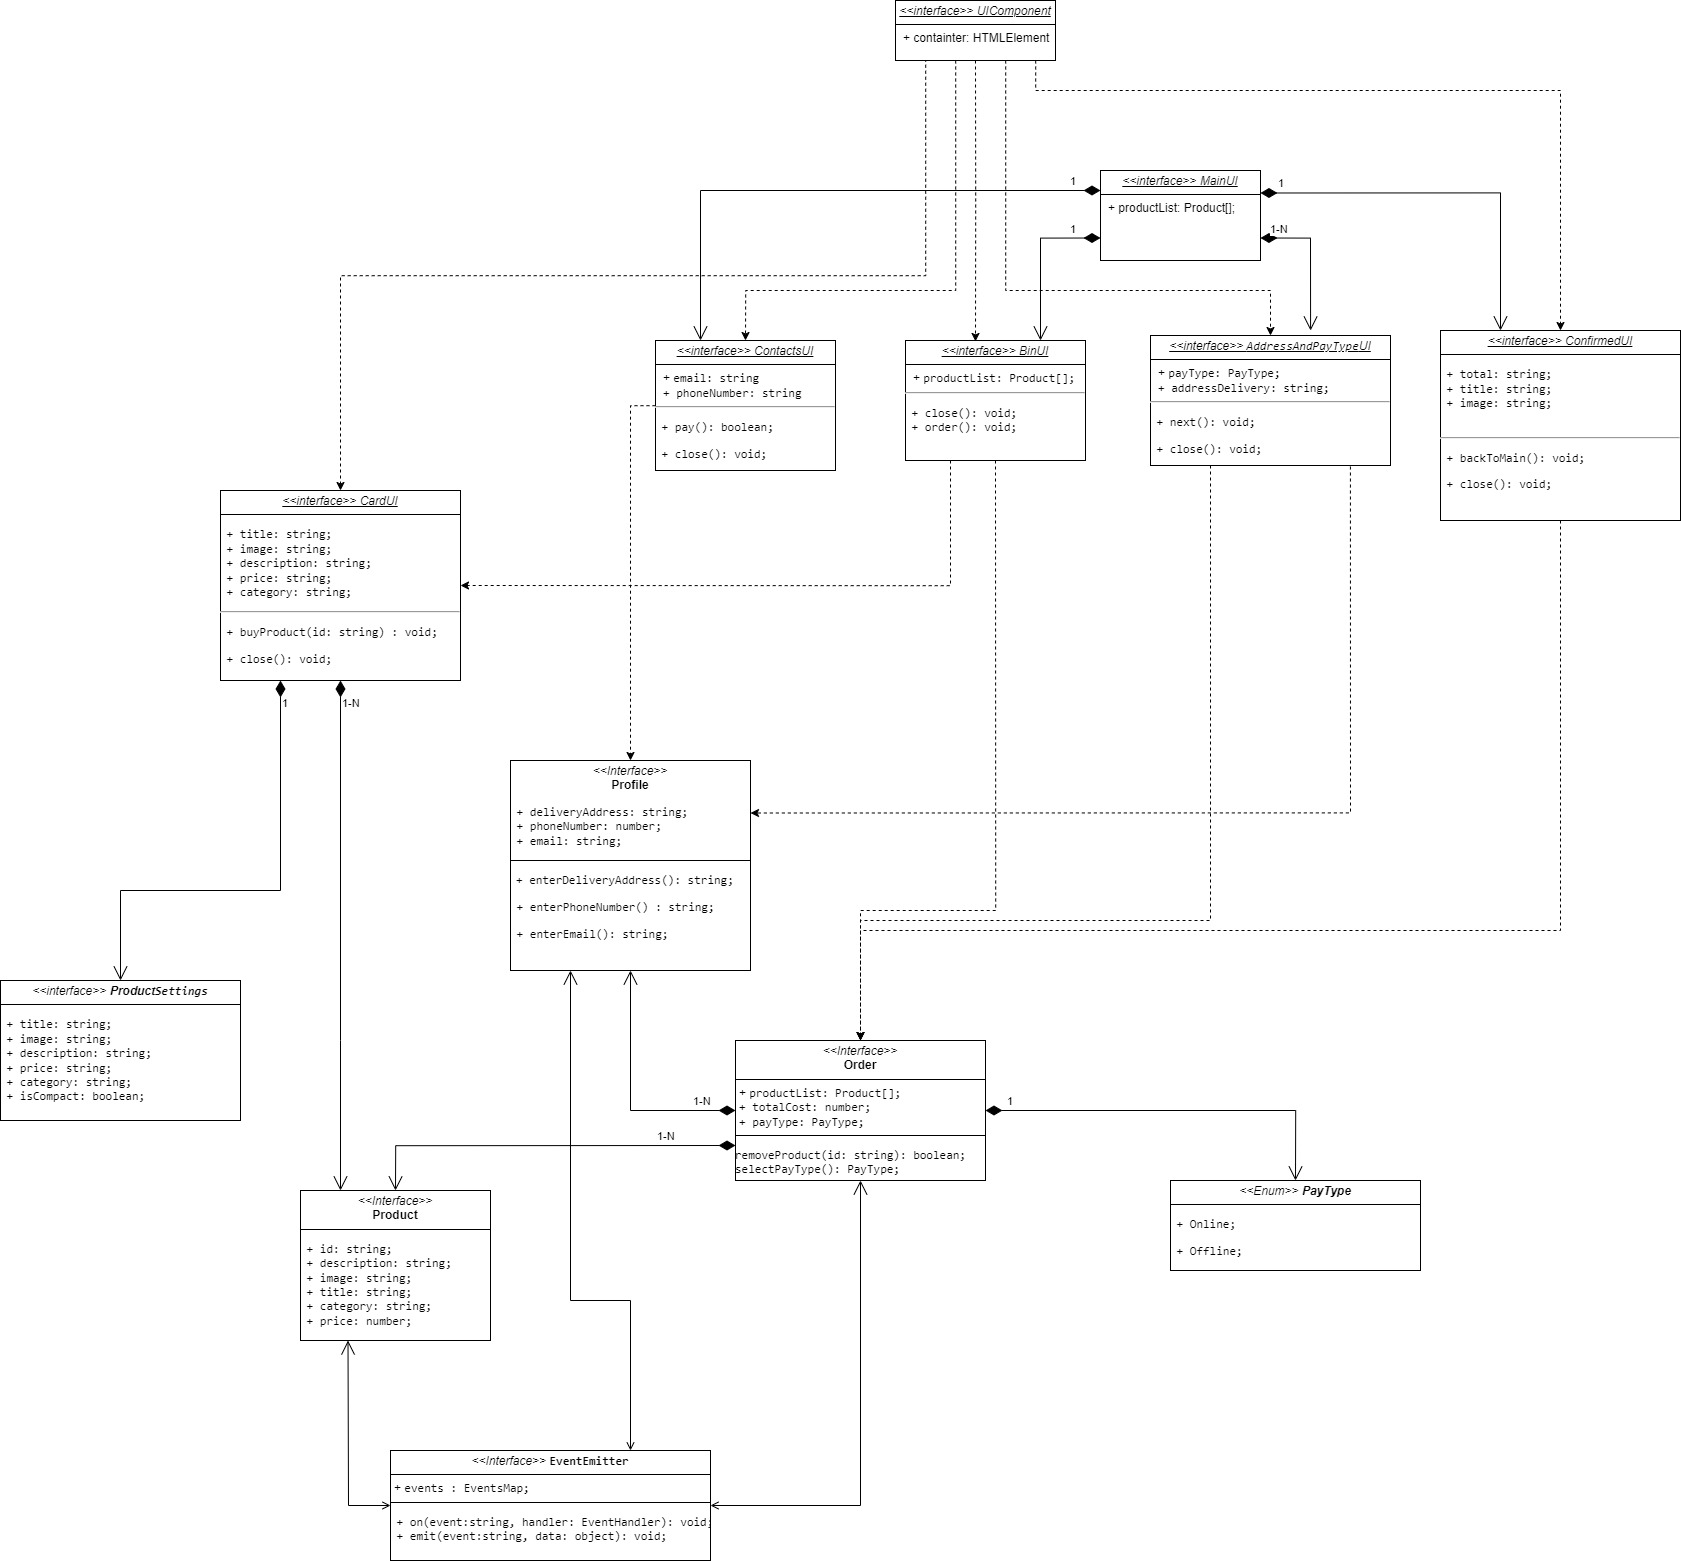
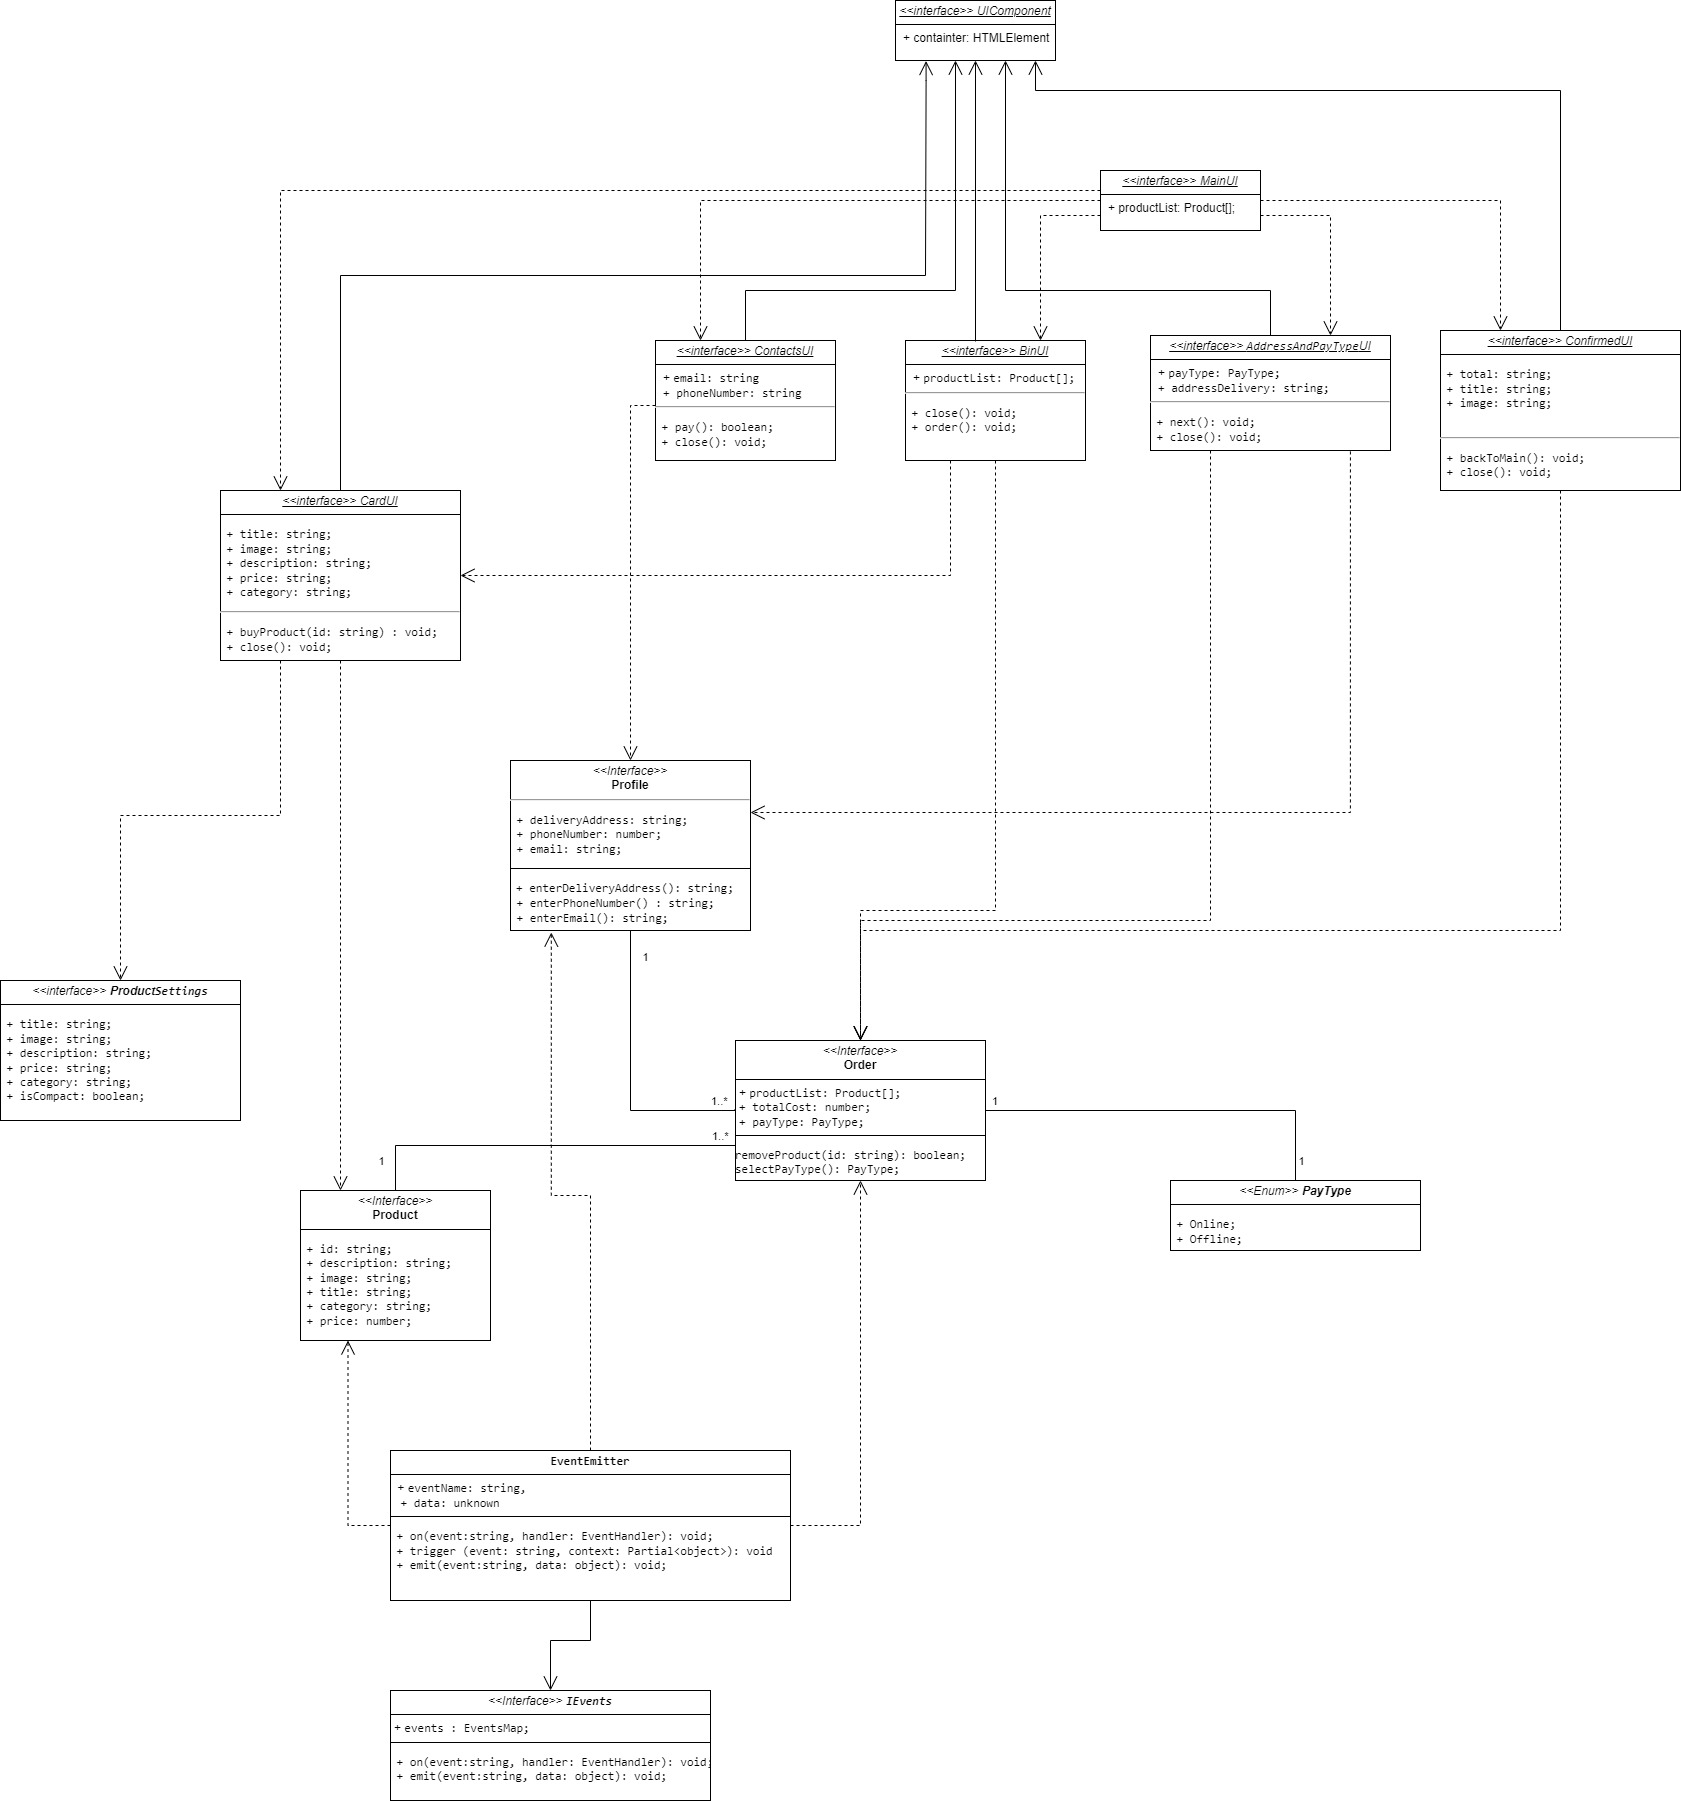
fix: Скорректирован README.md
Добавлено пояснение по архитектуре проекта, описаны методы, добавлены типы полей и методов.

diff --git a/src/types/components/model/AppState.ts b/src/types/components/model/AppState.ts
@@ -98,10 +98,63 @@ export interface AppStateSettings {
     onChange: (changed: AppStateChanges) => void;
 }
 
-export interface EventEmitter {
-    events : EventsMap;
+export interface ModalData<H, C> {
+    header?: H;
+    content: C;
+    message?: string;
+    isActive: boolean;
+    isError?: boolean;
+}
 
-    on(event:string, handler: EventHandler): void;
-    emit(event:string, data: object): void;
+export interface ModalSettings<H, C> {
+    close: string;
+    header: string;
+    content: string;
+    footer: string;
+    message: string;
+    headerView: IView<H>;
+    contentView: IView<C>;
+    actions: HTMLElement[];
+    activeClass: string;
+    messageErrorClass: string;
+    onOpen?: () => void;
+    onClose?: () => void;
+}
+
+export interface IView<T, S = object> {
+    element: HTMLElement;
+    copy(settings?: S): IView<T>;
+    render(data?: Partial<T>): HTMLElement;
+}
+
+interface IEvents {
+    on<T extends object>(event: string, callback: (data: T) => void): void;
+    emit<T extends object>(event: string, data?: T): void;
+    trigger<T extends object>(event: string, context?: Partial<T>): (data: T) => void;
+}
+
+type Subscriber = Function;
+
+type EmitterEvent = {
+    eventName: string,
+    data: unknown
+};
+
+export class EventEmitter implements IEvents {
+    events: EventsMap;
+
+    constructor() {
+        this.events = new Map<string, Set<EventHandler>>;
+    }
+
+    on<T extends object>(event: string, callback: (data: T) => void) {
+    }
+
+    emit<T extends object>(event: string, data?: T) {
+    }
+
+    trigger<T extends object>(event: string, context?: Partial<T>): (data: T) => void {
+        return;
+    }
 }
 

diff --git a/README.md b/README.md
@@ -45,73 +45,131 @@ yarn build
 ![](src/Архитектура WebLarek.jpg)
 
 ## Базовый код
-
+Архитектура проекта реализована через централизованный брокер событий IEvents.
 ### Класс EventEmitter
 Реализует паттерн «Наблюдатель» и позволяет подписываться на события и уведомлять подписчиков
 о наступлении события.
 Класс имеет методы on, emit — для подписки на событие и уведомления
 подписчиков о наступлении события соответственно.
+Список событий для подписки и уведомления:
+ *  ``openCard`` - открыть карточку Продукта,
+ * ``openBin`` - открыть корзину пользователя,
+ * ``closePopup`` - закрыть модальное окно,
+ * ``removeProduct`` - удалить продукт из корзины,
+ * ``buyProduct`` - добавить продукт в корзину,
+ * ``choosePayType`` - указать тип оплаты,
+ * ``addAddressDelivery`` - указать адрес доставки,
+ * ``addphoneNumber`` - указать телефон покупателя,
+ * ``addEmail`` - указать электронны адрес покупателя, 
+ * ``pay`` - оплатить заказ, 
+ * ``goToMainPage`` - перейти на главную страницу, 
+ * ``order``  - оформить заказ;
+### Класс UIComponent
+Родительский компонент, от которого наследуются все UI-компоненты.
+
+### Класс ModalData
+Описывает контейнер для модальных окон.
+ * ``header?: H`` - проброс данных в текущее отображение,
+ * ``content: C`` - Отображаемый контент,
+ * ``message?: string`` - Установка сообщения в модальное окно,
+ * ``isActive: boolean`` - Открытие и закрытие модального окна,
+ * ``isError?: boolean`` - Проверка на ошибки;
 
 ## Компоненты модели данных (бизнес-логика)
 
 ### 1.Класс Product
 Используется для описания сущности Продукта, который можно купить.  
- a) id - Уникальный идентификатор  
- b) description - Описание продукта  
- c) image - Фотография продукта  
- d) title - Заголовок продукта  
- e) category - Категория продукта  
- f) price - Цена продукта  
+ * ``id: string`` - Уникальный идентификатор,  
+ * ``description: string`` - Описание продукта,  
+ * ``image: string`` - Фотография продукта,  
+ * ``title: string`` - Заголовок продукта,  
+ * ``category: string`` - Категория продукта,  
+ * ``price: number`` - Цена продукта;  
 ### 2. Класс Profile  
 Описывает профиль пользователя, оформляющего заказ на покупку товара(ов)  
 В качестве данных профиля пользователя используются:  
- а) deliveryAddress - Адрес доставки  
- b) phoneNumber - Номер телефона пользователя  
- с) email - Электронный почтовый ящик пользователя  
+ * ``deliveryAddress: string`` - Адрес доставки,  
+ * ``phoneNumber: number`` - Номер телефона пользователя,  
+ * ``email: string`` - Электронный почтовый ящик пользователя;    
 
 Описывает методы:  
- a) enterDeliveryAddress - Ввести адрес доставки  
- b) enterPhoneNumber - Указать номер телефона пользователя  
- c) enterEmail - Указать электронный адрес пользователя  
+ * ``enterDeliveryAddress() string`` - Ввести адрес доставки,  
+ * ``enterPhoneNumber(): string`` - Указать номер телефона пользователя,  
+ * ``enterEmail(): string`` - Указать электронный адрес пользователя;  
 
 ### 3. Класс Order  
 Описывает заказ оформленный на портале.   
 Связан с Классами Profile и Product.   
-Содержит данные по пользователю, оформляющего заказ и данные по продуктам добавленные в корзину  
- a) productList - Список продуктов   
- b) totalCost - Общая стоимость товаров в корзине   
- c) payType - Тип доставки    
+Содержит данные по пользователю, оформляющего заказ и данные по продуктам добавленные в корзину,  
+ * ``productList: Product[]`` - Список продуктов,   
+ * ``totalCost: number`` - Общая стоимость товаров в корзине,   
+ * ``payType: PayType`` - Тип доставки;    
 
 Описывает методы:  
- a) removeProduct - Удалить добавленный продукт из заказа  
- b) selectPayType - Указать тип оплаты, при оформлении заказа 
+ * ``removeProduct(id:string): boolean`` - Удалить добавленный продукт из заказа,  
+ * ``selectPayType(): PayType`` - Указать тип оплаты, при оформлении заказа; 
 
 ### 4. Enum PayType
 Описывает варианты оплаты заказа:  
- а) Online
- b) Offline
+ * ``Online``
+ * ``Offline``
 
 ## Компоненты представления
 
 ### 1. Класс MainUI
-Отвечает за отображение главной веб-страницы 
+Отвечает за отображение главной веб-страницы
+Содержит:
+ * ``productList: Product[]`` - Список продуктов
 ### 2. Класс ContactsUI  
 Отвечает за отображение поп-ап формы, где пользователю необходимо ввести свои контакты.  
 Связано с данными Пользователя.  
+Содержит:   
+ * ``email: string`` - Емейл покупателя,  
+ * ``phoneNumber: string`` - Номер телефона покупателя;  
+
+Реализует методы:  
+ *  ``pay(): boolean`` - Кнопка оплаты товара,  
+ *  ``close(): void`` - Кнопка закрытия формы;  
 ### 3. Класс BinUI  
 Отвечает за отображение текущей корзины пользователя. Отображение связано с данными Продукта и Заказа  
+Содержит:  
+* ``productList: Product[]`` - Список продуктов,  
+* ``phoneNumber: string`` - Номер телефона покупателя;  
+
+Реализует методы:  
+*  ``order(): void`` - Кнопка оплаты товара,  
+*  ``close(): void`` - Кнопка закрытия формы;  
 ### 4. Класс AddressAndPayTypeUI  
 Отвечает за отображение поп-ап формы, для заполнения адреса и выбора типа оплаты заказа.  
-Связано с сущностью Заказа и Профилем пользователя   
+Связано с сущностью Заказа и Профилем пользователя.   
+Содержит:
+* ``payType: PayType`` - Тип оплаты: Онлайн/Офлайн,
+* ``addressDelivery: string`` - Адрес доставки покупателя;
+
+Реализует методы:
+*  ``next(): void`` - Кнопка "Далее",
+*  ``close(): void`` - Кнопка закрытия формы;
 ### 5. Класс ConfirmedUI  
 Отвечает за отображение поп-ап формы успешного совершения заказа.     
+Содержит:
+* ``total: string`` - Общая стоимость товаров в корзине,
+* ``title: string`` - Заголовок формы,
+* ``image: string`` - Фотография формы, 
+
+Реализует методы:
+*  ``backToMain(): void`` - Кнопка "Назад на главное меню",
+*  ``close(): void`` - Кнопка закрытия формы;
 ### 6. Класс CardUI  
 Отвечает за отображение Карточки Продукта
-### 7. Класс UIComponent 
-Родительский компонент, от которого наследуются все UI-компоненты.
+Содержит:
+* ``image: string`` - Изображение продукта,
+* ``description: string`` - Описание продукта,  
+* ``price: string`` - Цена продукта,    
+* ``category: string`` - Категория продукта; 
 
-
-
+Реализует методы:
+*  ``buyProduct(id: string): void`` - Кнопка "Купить продукты",
+*  ``close(): void`` - Кнопка закрытия формы;
 
 
 
